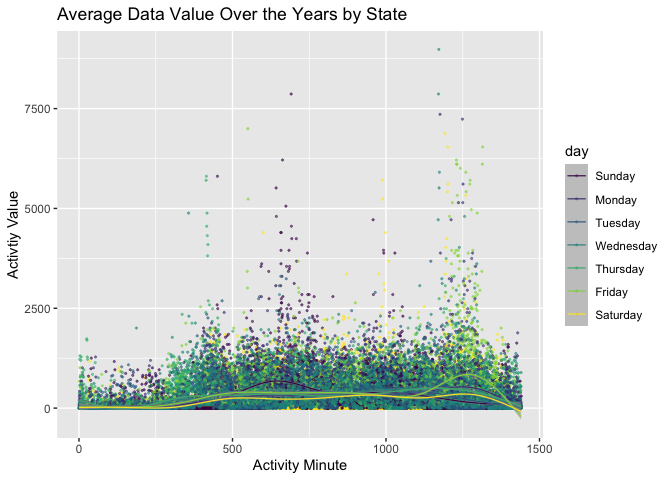
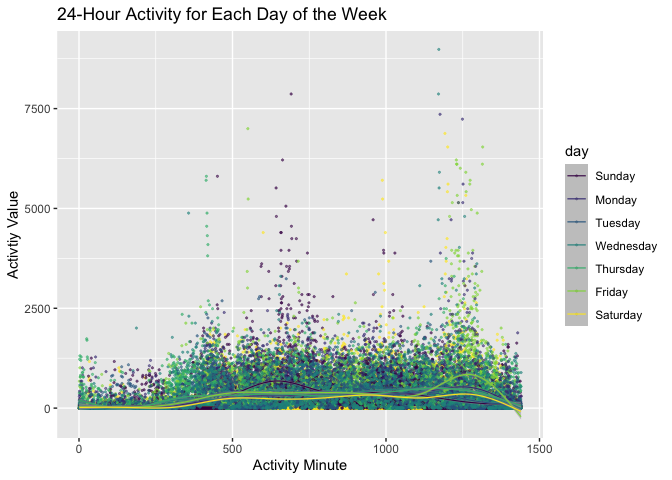
Adding comments to all problems

Changed region(s): [[0.0938, 0.0, 0.5938, 0.0625]]

diff --git a/p8105_hw3_zv2138.md b/p8105_hw3_zv2138.md
@@ -21,7 +21,7 @@ p8105\_hw3\_zv2138
 
 # Problem 1
 
-## Cleaning Instacart Data
+**Cleaning Instacart Data**
 
 ``` r
 data("instacart")
@@ -33,12 +33,11 @@ instacart =
    ) 
 ```
 
-## Describing the Instacart Dataset
-
-The Instacart dataset has 1384617 observations with orders coming from
-131209 costumers. There are 39123 products displayed in this dataset.
-Some examples of these products include Bulgarian Yogurt, Organic 4%
-Milk Fat Whole Milk Cottage Cheese, Organic Celery Hearts.
+**Describing the Instacart Dataset** The Instacart dataset has 1384617
+observations with orders coming from 131209 costumers. There are 39123
+products displayed in this dataset. Some examples of these products
+include Bulgarian Yogurt, Organic 4% Milk Fat Whole Milk Cottage Cheese,
+Organic Celery Hearts.
 
 The dataset has 15 variables including the hour of the day an order was
 placed, the day of the week an order was placed, and the products in the
@@ -49,21 +48,58 @@ these departments include dairy eggs, produce, canned goods.
 
 ## Problem 1 Illustrative Examples
 
-### Hour of the Day when Orders are Place
+``` r
+instacart %>% 
+  select(order_id, order_dow, order_hour_of_day) %>% 
+  distinct() %>% 
+  group_by(order_dow) %>% 
+  ggplot(aes(x = order_dow, y = order_hour_of_day)) +
+   geom_boxplot(aes(fill = order_dow), alpha = .5) +
+   labs(
+    title = "Hour of the Day when Orders are Placed ",
+    x = "Order Day of the Week",
+    y = "Order Hour of the Day",
+  ) + 
+    theme(legend.position = "none")
+```
 
 ![](p8105_hw3_zv2138_files/figure-gfm/unnamed-chunk-1-1.png)<!-- --> In
 general most orders are placed Sunday through Saturday between hours 10
-to 17. ADDD
+to 17. On Sunday there are several outliers of orders that ordered
+before 5am. On Saturday the median hour of the day when orders were
+places is 13.
 
-### Quantity of Products over the Week taken from Aisles in the Department
+``` r
+instacart_dept_dow = instacart %>% 
+  filter(department == "alcohol" | department == "pets") %>% 
+  group_by(order_dow, aisle, department) %>% 
+  summarise(total = n())
 
-![](p8105_hw3_zv2138_files/figure-gfm/unnamed-chunk-2-1.png)<!-- -->
-ADDDADDDADDDADDDADDDADDD
+instacart_dept_dow %>% 
+  ggplot(aes(x = order_dow, y = total, group = aisle, color = aisle)) + 
+  geom_line() +
+  facet_grid(department ~ ., scales = "free_y") +
+  theme(legend.position = "bottom") +
+   labs(
+    title = "Quantity of Products over the Week taken from Aisles in the Department",
+    x = "Day of the Week",
+    y = "Quantity of Products",
+  )
+```
+
+![](p8105_hw3_zv2138_files/figure-gfm/unnamed-chunk-2-1.png)<!-- --> We
+can see that the most beer coolers are ordered on Thursday and Friday.
+Pet food is ordered the most on the weekends.
 
 ## Problem 1 Questions
 
 How many aisles are there, and which aisles are the most items ordered
 from?
+
+``` r
+aisles = instacart %>% 
+ count(aisle, sort = TRUE)
+```
 
 There are 134. The top 5 aisles where most items are ordered are from
 fresh vegetables, fresh fruits, packaged vegetables fruits, yogurt,
@@ -71,7 +107,21 @@ packaged cheese
 
 Here we see a plot that shows the number of items ordered in each aisle
 with more than 10,000 items ordered.
-![](p8105_hw3_zv2138_files/figure-gfm/unnamed-chunk-4-1.png)<!-- -->
+
+``` r
+aisles %>% 
+  filter(n > 10000) %>% 
+  ggplot(aes(x = reorder(aisle, n), y = n)) + 
+  geom_bar(stat ='identity') + coord_flip() +
+  ylab("Total Items Ordered") + xlab("Aisle Name") + 
+  ggtitle("Total Items Ordered from Each Aisle with 
+              more than 10,000 items Ordered") 
+```
+
+![](p8105_hw3_zv2138_files/figure-gfm/unnamed-chunk-4-1.png)<!-- --> The
+aisle with the most items ordered are `fresh vegetables`, and the aisle
+with the least items ordered is `butter`.
+
 Make a table showing the three most popular items in each of the aisles
 “baking ingredients”, “dog food care”, and “packaged vegetables fruits”.
 Include the number of times each item is ordered in your table.
@@ -96,6 +146,13 @@ instacart %>%
 | Organic Raspberries                           | packaged vegetables fruits | 5546 |
 | Organic Blueberries                           | packaged vegetables fruits | 4966 |
 
+In the `packaged vegetables fruits` aisle the most popular items ordered
+are all organic. Interestingly `Organic Baby Spinach` is ordered more
+than `Organic Blueberries`. In the `dog food care` aisle
+`Snack Sticks Chicken & Rice Recipe Dog Treats` has been ordered 30
+times. Interesting in the `baking ingredients` aisle,
+`Light Brown Sugar` was ordered almost 100 more times than `Cane Sugar`.
+
 Make a table showing the mean hour of the day at which Pink Lady Apples
 and Coffee Ice Cream are ordered on each day of the week; format this
 table for human readers (i.e. produce a 2 x 7 table).
@@ -119,9 +176,17 @@ table[, c("product_name","Sun","Mon","Tue","Wed","Thu","Fri","Sat")] %>%
 | Pink Lady Apples | 13:26:28 | 11:21:36 | 11:42:07 | 14:15:00 | 11:33:06 | 12:47:03 | 11:56:15 |
 | Coffee Ice Cream | 13:46:27 | 14:18:56 | 15:22:51 | 15:19:05 | 15:13:02 | 12:15:47 | 13:50:00 |
 
+The mean hour of the day in which `Coffe Ice Cream` is ordered ranges
+from 12:15 to 15:22. The mean hour is latest in the day on Tuesday and
+earliest in the day on Friday. The mean hour of the day in which
+`Pink Lady Apples` is ordered ranges from 11:21 to 12:47. The mean hour
+is latest in the day on Friday and earliest in the day on Monday.
+Interestingly `Coffe Ice Cream` is on average ordered 2 hours later than
+`Pink Lady Apples` on Saturday.
+
 # Problem 2
 
-## Cleaning BRFSS SMART 2010
+**Cleaning BRFSS SMART 2010**
 
 ``` r
 data(brfss_smart2010) 
@@ -166,8 +231,6 @@ In 2002, CT, FL, MA, NC, NJ, PA states were observed at 7 or more
 locations. In 2010, CA, CO, FL, MA, MD, NC, NE, NJ, NY, OH, PA, SC, TX,
 WA states were observed at 7 or more locations.
 
-Spaghetti Plot
-
 ``` r
 brfss_spaghetti = brfss_subset %>%
   filter(response == 'Excellent') %>% 
@@ -178,14 +241,18 @@ brfss_spaghetti = brfss_subset %>%
 
 ggplot(data = brfss_spaghetti, aes(x = year, y = average_data_value, group = state, color = state)) +
   geom_line() + 
+  geom_point(size = 0.4, alpha = 0.5) +
   labs(
     title = "Average Data Value Over the Years by State",
-    x = "Average Data Value",
-    y = "Year",
+    x = "Year",
+    y = "Average Data Value",
   ) 
 ```
 
 ![](p8105_hw3_zv2138_files/figure-gfm/unnamed-chunk-9-1.png)<!-- -->
+Most states have an average data value ranging from 20 to 26 from 2002
+to 2010. It appears that over this time frame there is a slight decrease
+in the average data value.
 
 Make a two-panel plot showing, for the years 2006, and 2010,
 distribution of data\_value for responses (“Poor” to “Excellent”) among
@@ -208,32 +275,38 @@ brfss_ny %>%
 ```
 
 ![](p8105_hw3_zv2138_files/figure-gfm/unnamed-chunk-10-1.png)<!-- -->
+There does not appear to be a huge difference in the distribution of
+data value for responses among locations in New York State comparing
+2006 to 2010. In both years states with an average data value of 0 to 5
+had mostly poor responses. Interesting in 2006 there appears to be a
+peak in Fair responses for states with an average data value around 12.
 
 # Problem 3
 
-## Load and Tidy the Accelerometer Data
+**Load and Tidy the Accelerometer Data**
 
-    ## Rows: 35 Columns: 1443
+``` r
+accel_data_og = read_csv("./accel_data.csv") 
 
-    ## ── Column specification ────────────────────────────────────────────────────────
-    ## Delimiter: ","
-    ## chr    (1): day
-    ## dbl (1442): week, day_id, activity.1, activity.2, activity.3, activity.4, ac...
+accel_data = read_csv("./accel_data.csv") %>% 
+  janitor::clean_names() %>% 
+  pivot_longer(activity_1:activity_1440,
+               names_to = "minute",
+               values_to = "activity_data") %>% 
+  mutate(minute = gsub("^.{0,9}", "", minute),
+         minute = as.numeric(minute),
+         day = factor(day, ordered = TRUE, 
+                  levels = c("Sunday", "Monday", "Tuesday", "Wednesday", "Thursday", "Friday", "Saturday")),
+         day_type = ifelse((day == c("Sunday", "Saturday")), "Weekend", "Weekday")) %>% 
+  relocate(day_type, .after = day)
+```
 
-    ## 
-    ## ℹ Use `spec()` to retrieve the full column specification for this data.
-    ## ℹ Specify the column types or set `show_col_types = FALSE` to quiet this message.
-
-    ## Rows: 35 Columns: 1443
-
-    ## ── Column specification ────────────────────────────────────────────────────────
-    ## Delimiter: ","
-    ## chr    (1): day
-    ## dbl (1442): week, day_id, activity.1, activity.2, activity.3, activity.4, ac...
-
-    ## 
-    ## ℹ Use `spec()` to retrieve the full column specification for this data.
-    ## ℹ Specify the column types or set `show_col_types = FALSE` to quiet this message.
+The Accelerometer dataset has 50400 observations 6 variables. Variables
+include `week` which refers to the week number the data was collected.
+Data was collected over 5 weeks. The data contains a `minute` variable
+which represents the minute of the data the data is from. The data also
+contains an `activity_data` variable indicating the level of activity
+for a given `minute`.
 
 Using your tidied dataset, aggregate accross minutes to create a total
 activity variable for each day, and create a table showing these totals.
@@ -243,11 +316,7 @@ Are any trends apparent?
 total_activity = accel_data %>% 
   group_by(day_id, day) %>% 
   summarize(total_activity = sum(activity_data)) 
-```
 
-    ## `summarise()` has grouped output by 'day_id'. You can override using the `.groups` argument.
-
-``` r
 knitr::kable(total_activity)
 ```
 
@@ -295,12 +364,15 @@ total_activity %>%
   ggplot(aes(x = day_id, y = total_activity, group = day)) + 
   geom_boxplot(aes(fill = day), alpha = .5) +
    labs(
-    x = "Total Activity",
-    y = "Day of the Week"
+    x = "Day of the Week",
+    y = "Total Activity"
   )
 ```
 
 ![](p8105_hw3_zv2138_files/figure-gfm/unnamed-chunk-12-1.png)<!-- -->
+The most activity occurred on Friday. Saturday has the most spread in
+total activity count while Wednesday has the least spread. Thursday and
+Tuesday have similar median level of total activity.
 
 Make a single-panel plot that shows the 24-hour activity time courses
 for each day and use color to indicate day of the week.
@@ -311,10 +383,14 @@ accel_data %>%
   geom_point(size = 0.4, alpha = 0.5) + 
   geom_smooth(method = "gam", formula = y ~ s(x, bs = "cs"), size = 0.4, alpha = 0.5) +
   labs(
-    title = "Average Data Value Over the Years by State",
+    title = "24-Hour Activity for Each Day of the Week",
     x = "Activity Minute",
     y = "Activtiy Value",
   ) 
 ```
 
 ![](p8105_hw3_zv2138_files/figure-gfm/unnamed-chunk-13-1.png)<!-- -->
+Each dot represents the minute an activity occurred and the value of
+activity data. Each dot is color coded to indicated the day of the week.
+We see over the course of a 24 hour day activity value begins to
+increase at around minute 400.
